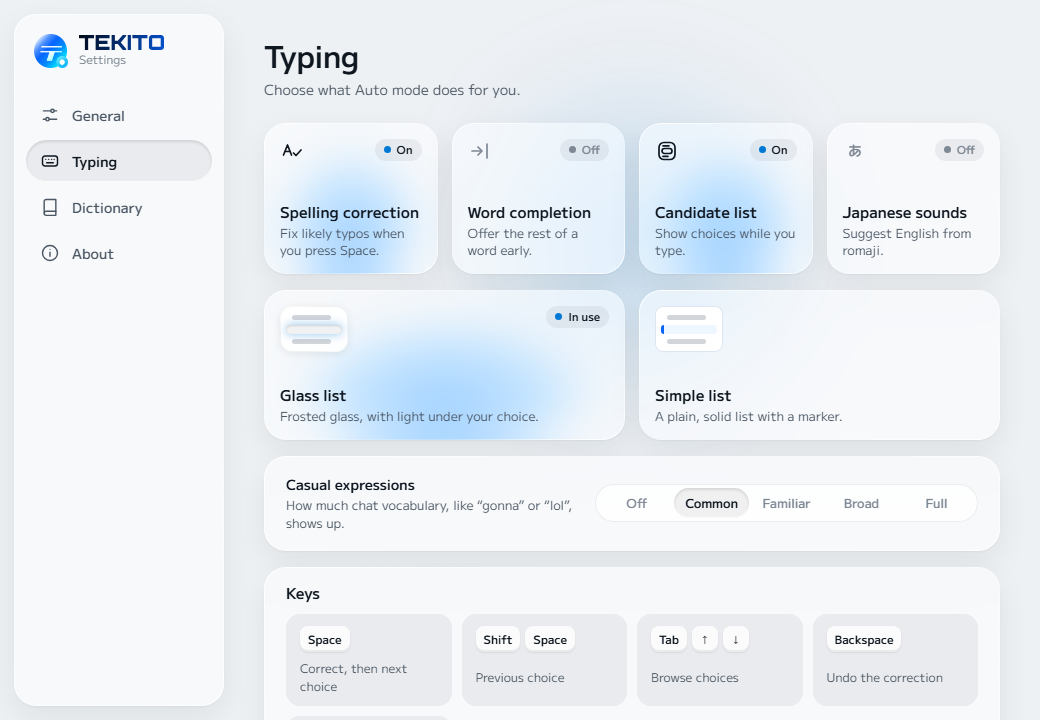
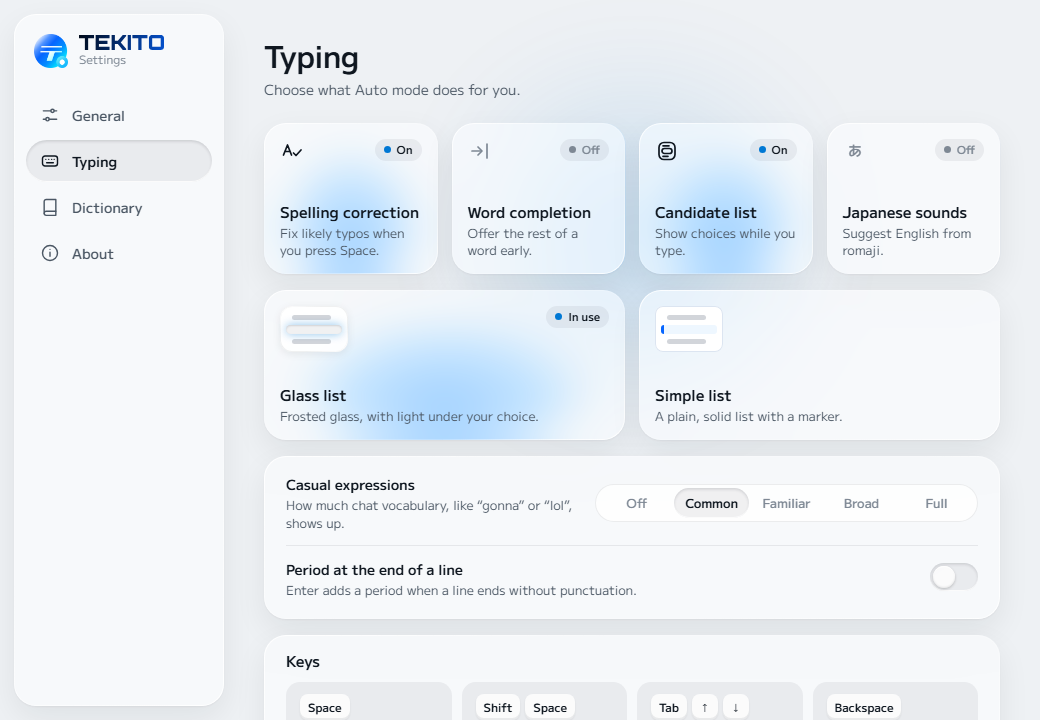
Show the Japanese UI in the Japanese README
The typing demo can record with the Japanese candidate tags (TEKITO_PREVIEW_LANGUAGE=ja). README_JP.md now uses Japanese screenshots of the demo, the candidate list and Settings; the English Settings shot is retaken to include the line-end period option.

diff --git a/tests/visual/TypingDemo.cpp b/tests/visual/TypingDemo.cpp
@@ -165,6 +165,11 @@ int wmain(int argc, wchar_t** argv) {
 
     tekito::tsf::CandidateWindow window;
     if (!window.Initialize(instance, [](std::size_t) {})) return 1;
+    // TEKITO_PREVIEW_LANGUAGE=ja records the demo with the Japanese tags.
+    wchar_t language[8]{};
+    if (GetEnvironmentVariableW(L"TEKITO_PREVIEW_LANGUAGE", language, 8) > 0 && wcscmp(language, L"ja") == 0) {
+        window.SetJapanese(true);
+    }
     tekito::UserDictionary dictionary;
     const auto engine = tekito::CreateDefaultConversionEngine(dictionary);
     if (!engine) return 1;
